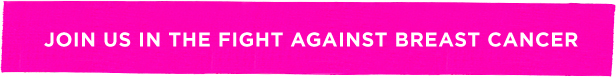
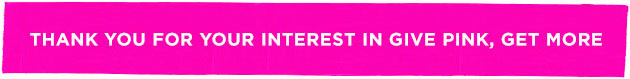
B-65083: [STATIC CONTENT] GPGM Post-Campaign Experience

diff --git a/server/lib/views/campaign/give-pink-get-more/breast-cancer-awareness/index-mobile.html b/server/lib/views/campaign/give-pink-get-more/breast-cancer-awareness/index-mobile.html
@@ -8,55 +8,15 @@
 <link href="/fashion/styles/projects/campaign/give-pink-get-more/breast-cancer-awareness/mobile.css" rel="stylesheet" type="text/css" />
 
 <section class="intro row">
-    <h2 class="title">Now through Monday, October 31</h2>
-
     <img src="/fashion/images/projects/campaign/give-pink-get-more/logo-mbl.jpg" alt="get-pink-get-more-logo">
 
-    <h3 class="subtitle">JOIN US IN THE FIGHT AGAINST BREAST CANCER</h3>
+    <h3 class="subtitle">THANK YOU FOR YOUR INTEREST IN GIVE PINK, GET MORE</h3>
 
-    <img src="/fashion/images/projects/campaign/give-pink-get-more/promo-table-mbl.jpg" alt="get-pink-get-more-points">
-
-    <div class="gpgm-the-give">
-        <h4>THE GIVE:</h4>
-        <p>
-            From 9/26–10/31/2016, <b>enroll in the
-            program by charging a $15 fee on your
-            Bloomingdale's Credit Card***</b>—100%
-            of which will fund research, support
-            and awareness programs at these three
-            organizations: the <b>Breast Cancer Research
-            Foundation&reg; (BCRF), The Carey
-            Foundation</b> and the <b>Marisa Acocella
-            Marchetto Foundation</b>. Then, shop to your
-            heart’s content, even for cosmetics and
-            fragrances, on your Bloomingdale’s Credit
-            Card.
-        </p>
-
-        <p>
-            Don't have a Bloomingdale's Credit Card?***
-        </p>
+    <div class="gpgm-thank-you">
+        <h4>UNFORTUNATELY, OUR 2016 CAMPAIGN HAS ENDED.</h4>
+        <p>Over the past 12 years, Bloomingdales's &dash;with your help&dash; has contributed more than $10 million to the flight against breast cancer. Through our <b>Give Pink, Get More</b> campaign, we have funded research, support and awareness programs at these three organizations: the <b>Breast Cancer Research Foundation&reg;, The Carey Foundation</b> and the <b>Marisa Acocella Marchetto Foundation</b>.</p>
+        <p>We invite you to check back in September for details on how to participate in Give Pink, Get More for 2017.</p>
     </div>
-
-    <a href="#" onclick="hp_Apply()" class="button">APPLY NOW</a>
-
-    <div class="gpgm-the-get">
-        <h4>THE GET:</h4>
-        <p>Based on the amount you spend at Bloomingdale's and bloomingdales.com, you’ll be mailed a <b>Give Pink, Get More Card
-            worth up to $250</b>, just in time for holiday shopping in early December. You can use it at any Bloomingdale’s store and
-            bloomingdales.com.**</br>&nbsp;
-            <a href="#" onclick="hp_TOC()" >TERMS &amp; CONDITIONS</a>
-        </p>
-    </div>
-
-    <div class="gpgm-footer">
-        *$15 enrollment fee required. Restrictions and exclusions apply. Value of Give Pink, Get More Card depends on the amount spent
-        on your Bloomingdale’s Credit Card at Bloomingdale’s and bloomingdales.com during the promotion.</br>
-        **May not be used as payment or credit on your Bloomingdale’s Credit Card account or exchanged for cash.</br>
-        ***Subject to credit approval.
-    </div>
-
-    <a href="#" onclick="hp_Enroll()" class="button">ENROLL NOW</a>
 </section>
 
 <script type="text/javascript">
@@ -65,17 +25,4 @@
         BLOOMIES.coremetrics.cmCreatePageviewTag("MBL:fall16_give_pink", "MBL:fall16_give_pink");
     }
     window.onload = applyPageViewCM;
-
-    function hp_TOC() {
-        BLOOMIES.coremetrics.cmCreatePageElementTag("MBL:hp-TOC", "MBL:fall16_give_pink");
-        window.location.href='//www.bloomingdales.com/loyallist/gpgmEnroll';
-    }
-    function hp_Enroll() {
-        BLOOMIES.coremetrics.cmCreatePageElementTag("MBL:hp-enroll_now", "MBL:fall16_give_pink");
-        window.location.href='//www.bloomingdales.com/loyallist/gpgmEnroll';
-    }
-    function hp_Apply() {
-        BLOOMIES.coremetrics.cmCreatePageElementTag("MBL:hp-apply_now", "MBL:fall16_give_pink");
-        window.open("//www.bloomingdales.com/service/credit/applynow/creditapp.ognc");
-    }
 </script>

diff --git a/server/lib/views/campaign/give-pink-get-more/breast-cancer-awareness/index.html b/server/lib/views/campaign/give-pink-get-more/breast-cancer-awareness/index.html
@@ -14,53 +14,11 @@
 			<img src="/fashion/images/projects/campaign/give-pink-get-more/logo.jpg" alt="give-pink-get-more-logo"/>
 		</div>
 		<div class="intro-right small-17 columns">
-			<h2 class="title">Now through Monday, October 31</h2>
-			<h3 class="subtitle">JOIN US IN THE FIGHT AGAINST BREAST CANCER</h3>
-
-			<div class="gpgm-the-give row">
-				<div class="small-14 columns">
-					<img src="/fashion/images/projects/campaign/give-pink-get-more/promo-table.jpg" alt="get-pink-get-more-points">
-				</div>
-				<div class="small-10 columns">
-					<h4>THE GIVE:</h4>
-					<p>
-						From 9/26–10/31/2016, <b>enroll in the
-						program by charging a $15 fee on your
-						Bloomingdale's Credit Card***</b>—100%
-						of which will fund research, support
-						and awareness programs at these three
-						organizations: the <b>Breast Cancer Research
-						Foundation&reg; (BCRF), The Carey
-						Foundation</b> and the <b>Marisa Acocella
-						Marchetto Foundation</b>. Then, shop to your
-						heart’s content, even for cosmetics and
-						fragrances, on your Bloomingdale’s Credit
-						Card.
-					</p>
-					<p>
-						Don't have a Bloomingdale's</br>
-						Credit Card?***
-						<a href="#" onclick="hp_Apply()">APPLY NOW</a>
-					</p>
-				</div>
-			</div>
-
-			<div class="gpgm-the-get">
-				<h4>THE GET:</h4>
-				<p>Based on the amount you spend at Bloomingdale's and bloomingdales.com, you’ll be mailed a <b>Give Pink, Get More Card
-					worth up to $250</b>, just in time for holiday shopping in early December. You can use it at any Bloomingdale’s store and
-					bloomingdales.com.**&nbsp;
-					<a href="#" onclick="hp_TOC()" >TERMS &amp; CONDITIONS</a>
-				</p>
-			</div>
-
-			<a href="#" onclick="hp_Enroll()" class="button">ENROLL NOW</a>
-
-			<div class="gpgm-footer">
-				*$15 enrollment fee required. Restrictions and exclusions apply. Value of Give Pink, Get More Card depends on the amount spent
-				on your Bloomingdale’s Credit Card at Bloomingdale’s and bloomingdales.com during the promotion.</br>
-				**May not be used as payment or credit on your Bloomingdale’s Credit Card account or exchanged for cash.</br>
-				***Subject to credit approval.
+			<h3 class="subtitle">THANK YOU FOR YOUR INTEREST IN GIVE PINK, GET MORE</h3>
+			<div class="gpgm-thank-you">
+				<h4>UNFORTUNATELY, OUR 2016 CAMPAIGN HAS ENDED.</h4>
+				<p>Over the past 12 years, Bloomingdales's &dash;with your help&dash; has contributed more than $10 million to the flight against breast cancer. Through our <b>Give Pink, Get More</b> campaign, we have funded research, support and awareness programs at these three organizations: the <b>Breast Cancer Research Foundation&reg;, The Carey Foundation</b> and the <b>Marisa Acocella Marchetto Foundation</b>.</p>
+				<p>We invite you to check back in September for details on how to participate in Give Pink, Get More for 2017.</p>
 			</div>
 		</div>
 	</section>
@@ -71,18 +29,5 @@
 			BLOOMIES.coremetrics.cmCreatePageviewTag("fall16_give_pink", "fall16_give_pink");
 		}
 		window.onload = applyPageViewCM;
-
-		function hp_TOC() {
-			BLOOMIES.coremetrics.cmCreatePageElementTag("hp-TOC", "fall16_give_pink");
-			window.location.href='//www.bloomingdales.com/loyallist/gpgmEnroll';
-		}
-		function hp_Enroll() {
-			BLOOMIES.coremetrics.cmCreatePageElementTag("hp-enroll_now", "fall16_give_pink");
-			window.location.href='//www.bloomingdales.com/loyallist/gpgmEnroll';
-		}
-		function hp_Apply() {
-			BLOOMIES.coremetrics.cmCreatePageElementTag("hp-apply_now", "fall16_give_pink");
-			window.open("//www.bloomingdales.com/service/credit/applynow/creditapp.ognc");
-		}
 	</script>
 </div>

diff --git a/public/styles/projects/campaign/give-pink-get-more/breast-cancer-awareness/desktop.scss b/public/styles/projects/campaign/give-pink-get-more/breast-cancer-awareness/desktop.scss
@@ -1,103 +1,45 @@
 .intro {
   position: relative;
   overflow: hidden;
-  padding: 25px 0;
-
-  .intro-left {
-    margin-top: 45px;
-  }
+  padding: 40px 0 ;
 
   .intro-right{
+    margin-top: 60px;
     padding: 0 .45455em 0 0;
-    h2.title {
-      font-family: Avenir, Helvetica, Arial, sans-serif;
-      font-size: 13px;
-      font-weight: 900;
-      letter-spacing: 1.5px;
-      text-transform: uppercase;
-      text-align: center;
-    }
+
     h3.subtitle {
-      height: 80px;
+      height: 79px;
       width: 100%;
       margin-bottom: 20px;
-      background: url('/fashion/images/projects/campaign/give-pink-get-more/banner.jpg') no-repeat;
+      background: url('/fashion/images/projects/campaign/give-pink-get-more/banner.jpg') center no-repeat;
       background-size: contain;
       white-space: nowrap;
       color: transparent;
       font-size: 0;
     }
-    a.button {
-      padding: 0 1.25rem;
-      font-size: 11px;
-      line-height: 2.75rem;
-      height: 2.91667rem;
-      letter-spacing: 0.02083rem;
-      text-transform: uppercase;
-      border-color: #000;
-      background: #000;
-      color: #fff;
-      border-style: solid;
-      border-width: 1px;
-      cursor: pointer;
-      font-family: Avenir, Helvetica, Arial, sans-serif;
-      font-weight: bold;
-      margin: 16px 0;
-      position: relative;
-      text-decoration: none;
-      text-align: center;
-      display: inline-block;
-    }
+
     h4 {
       padding-top: 0;
       padding-bottom: 0;
-      letter-spacing: 3px;
+      letter-spacing: 2px;
       font-family: Helvetica Neue, Helvetica, Arial, sans-serif;
       color: #fc03b5 !important;
       text-transform: uppercase;
-      font-size: 18px;
+      font-size: 16px;
     }
   }
 
-  .gpgm-the-give {
-    margin: 0;
-    p {
-      font-family: HelveticaLTStd, Helvetica, Arial, sans-serif;
-      font-size: 12px;
-      line-height: 1.4;
-      a {
-        font-weight: bold;
-      }
-      a:link, a:active, a:visited {
-        color: #000;
-      }
-    }
-  }
+  .gpgm-thank-you {
+    padding: 0 70px;
 
-  .gpgm-the-get {
     h4 {
       margin: 12px 0;
-      padding: 0;
     }
+
     p {
       line-height: 1.6;
-      font-size: 11px;
-      font-family: Helvetica Neue, Helvetica, Arial, sans-serif;
       letter-spacing: 0.4px;
       color: #333333;
-      margin: 0;
-      a {
-        color: #333333;
-        font-size: 10px;
-      }
     }
-  }
-
-  .gpgm-footer {
-    line-height: 1.6;
-    font-size: 10px;
-    font-family: Helvetica Neue, Helvetica, Arial, sans-serif;
-    letter-spacing: 0.5px;
-    color: #333333;
   }
 }

diff --git a/public/styles/projects/campaign/give-pink-get-more/breast-cancer-awareness/mobile.scss b/public/styles/projects/campaign/give-pink-get-more/breast-cancer-awareness/mobile.scss
@@ -2,19 +2,13 @@
   position: relative;
   overflow: hidden;
   padding: 15px;
+
   img {
     display: block;
     margin-left: auto;
     margin-right: auto;
   }
-  h2.title {
-    font-family: "Avenir LT W01 95 Black", Helvetica, Arial, sans-serif;
-    font-size: 17px;
-    font-weight: 900;
-    letter-spacing: 1.5px;
-    text-transform: uppercase;
-    text-align: center;
-  }
+
   h3.subtitle {
     height: 80px;
     width: 100%;
@@ -27,28 +21,7 @@
     text-align: center;
     line-height: 1;
   }
-  a.button {
-    padding: 0 1.25rem;
-    font-size: 1.6rem;
-    line-height: 5.5rem;
-    height: 5.5rem;
-    width: 100%;
-    letter-spacing: 0.02083rem;
-    text-transform: uppercase;
-    border-color: #000;
-    background: #000;
-    color: #fff;
-    border-style: solid;
-    border-width: 1px;
-    cursor: pointer;
-    font-family: Avenir, Helvetica, Arial, sans-serif;
-    font-weight: bold;
-    margin: 16px 0;
-    position: relative;
-    text-decoration: none;
-    text-align: center;
-    display: inline-block;
-  }
+
   h4 {
     padding-top: 0;
     padding-bottom: 0;
@@ -56,45 +29,24 @@
     font-family: Helvetica Neue, Helvetica, Arial, sans-serif;
     color: #fc03b5 !important;
     text-transform: uppercase;
-    font-size: 23px;
+    font-size: 18px;
   }
+
   p {
     line-height: 1.4;
     font-size: 14px;
-    font-family: Helvetica Neue, Helvetica, Arial, sans-serif;
   }
-  .gpgm-the-give {
+
+  .gpgm-thank-you {
     margin: 15px 0 0 0;
+
     h4 {
+      margin-bottom: 20px;
+      text-align: center;
+    }
+
+    p:nth-last-child(1) {
       margin-bottom: 0;
     }
-    p {
-      &:nth-child(2) {
-        margin-top: 0;
-      }
-      a {
-        font-weight: bold;
-      }
-    }
-  }
-  .gpgm-the-get {
-    h4 {
-      margin: 12px 0 0 0;
-      padding: 0;
-    }
-    p {
-      margin: 0;
-      a {
-        font-size: 10px;
-      }
-    }
-  }
-  .gpgm-footer {
-    margin-top: 16px;
-    line-height: 1.6;
-    font-size: 10px;
-    font-family: Helvetica Neue, Helvetica, Arial, sans-serif;
-    letter-spacing: 0.5px;
-    color: #333333;
   }
 }
